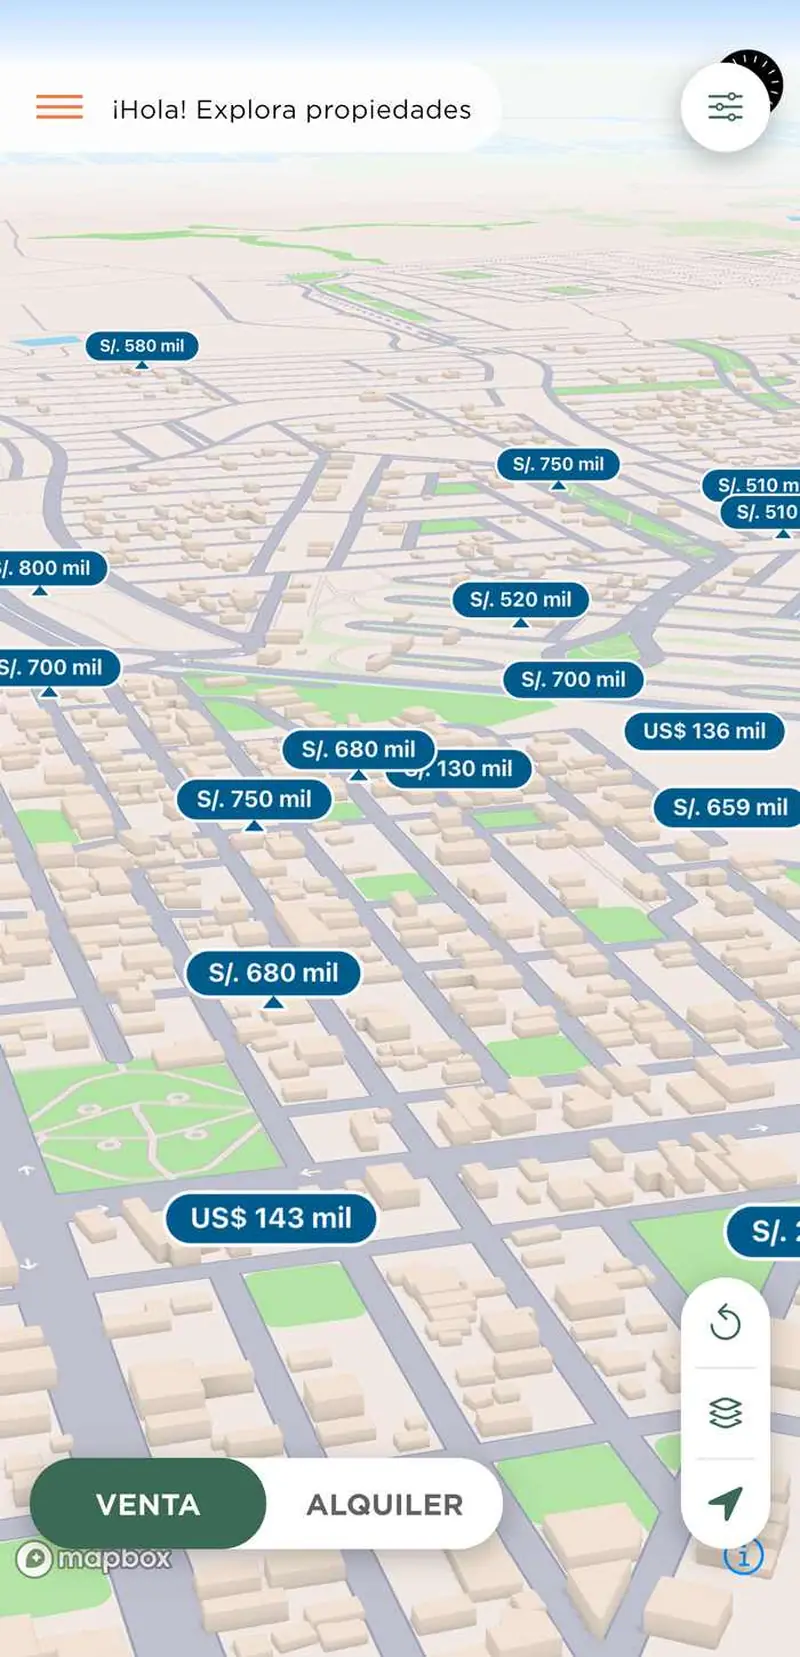
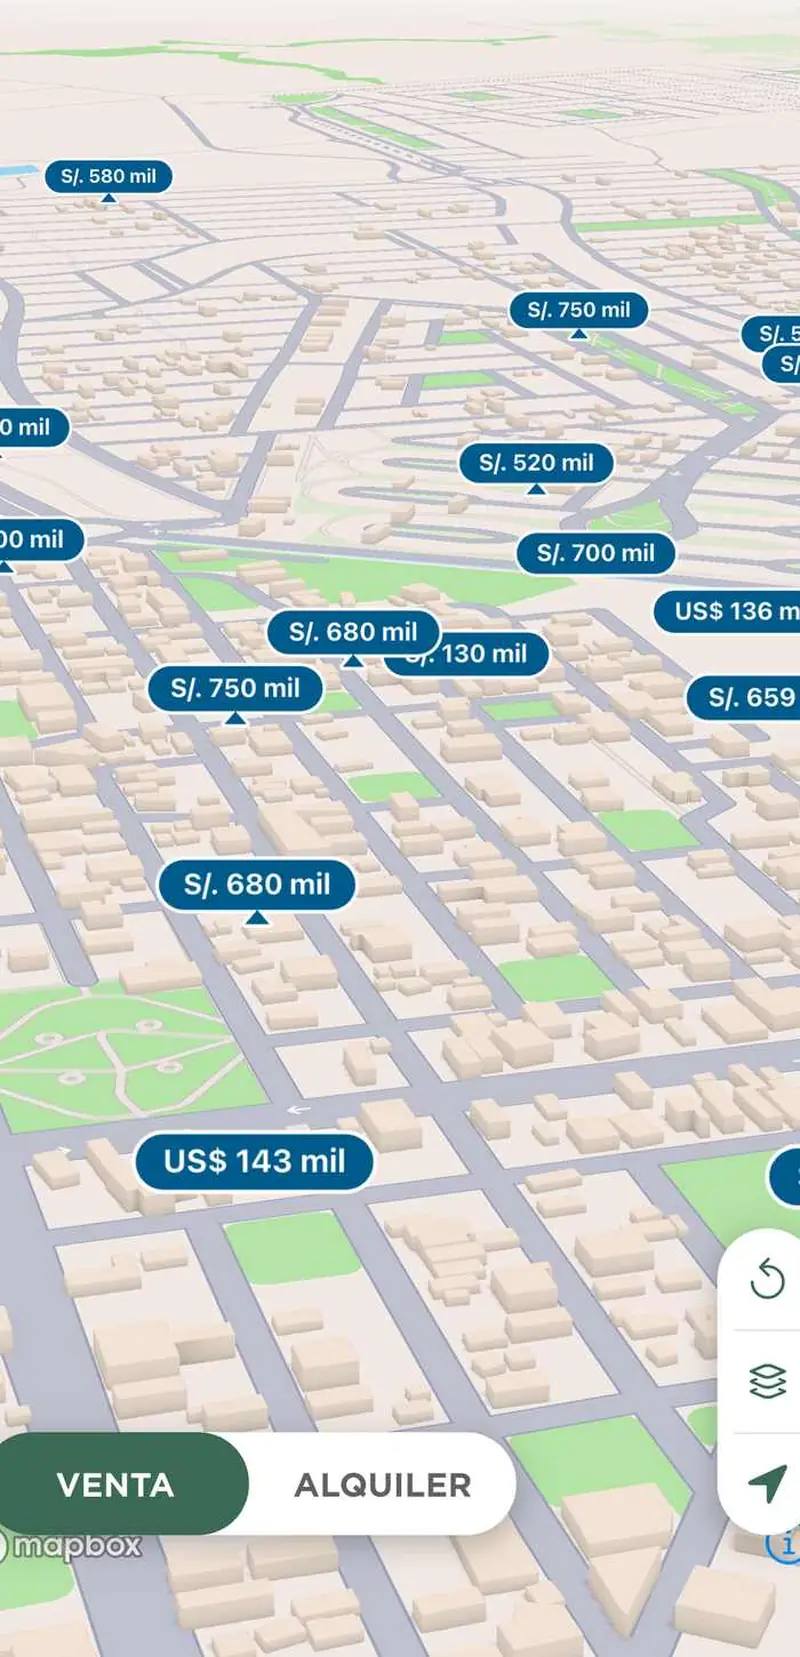
hero: browser becomes atmosphere, add the district row, nav says Anunciar
Second design pass. Four changes that matter:

- The browser behind the phone is now faded and softened. Sharp and at full
  strength it put a second map of the same city, at the same zoom, with the
  same price-pill language, directly behind the phone -- the bezel was doing
  all the separating and there was no depth. Its rent pills also put six more
  orange objects on the board than the CTA, so the button stopped owning the
  colour. It now bleeds off the right and the bottom, so the only edge in view
  is the top one, which is where a window is supposed to have one.

- Added a district row: Castilla, Sullana, Piura, 26 de Octubre, Mancora,
  Miguel Checa. Read from production and ordered by listing count. It is the
  only evidence on the page, it terminates the left column at the same
  baseline as the phone, and it answers the question a visitor actually has.
  Nobody's remaining doubt is price -- that is answered twice. It is 'do you
  cover where my property is'. Only districts with live listings are listed.

- The eyebrow stopped naming its subject once the headline took over the
  location, so it read as a fragment above a sentence. Now 'Cualquier
  distrito, cualquier propiedad'.

- Header nav says 'Anunciar' instead of 'Publica Gratis' -- the decided
  concept word, and a nav item should name a destination rather than make a
  claim.

Also: the mobile map block is now a link to /explorar. A photoreal,
[…]

diff --git a/src/components/landing/HeroSection.tsx b/src/components/landing/HeroSection.tsx
@@ -14,21 +14,43 @@ interface HeroSectionProps {
  * The hero carries the two things the paid ads lead with: anunciar is free
  * anywhere in Piura, and there is an app. Everything else is secondary.
  *
- * Copy notes, so nobody "improves" these back:
+ * Copy notes, so these are not "improved" back:
  * - "Anunciar" is the concept word, "Agrega tu propiedad" is the button. A
- *   button that repeats the headline's claim says nothing about what clicking
+ *   button repeating the headline's claim says nothing about what clicking
  *   does. See brand.md's glossary.
  * - The body used to end "...el mapa que la gente de Piura ya está mirando."
- *   It reads better and implies an audience we do not have yet, which
- *   constraints.md forbids. Same-day is a verified fact instead: listings are
- *   written straight to status 'active' with no moderation gate.
- * - The free claim is made exactly twice — headline and body. It was made five
- *   times across nav, headline, body, a price lockup and a screenshot overlay.
+ *   It reads better and implies an audience we do not have (52 users, 257
+ *   listing views all time), which constraints.md forbids. Same-day is a
+ *   verified fact: listings are written straight to status 'active' with no
+ *   moderation gate.
+ * - "Sin límite de avisos" is verified too: no cap exists in the rules, the
+ *   services or the functions, and one owner already holds 8 listings.
+ * - The free claim is made exactly twice — headline and body. It had been made
+ *   five times across nav, headline, body, a price lockup and an overlay.
  *
- * Store badges are Apple's and Google's official artwork. Apple's badge is
- * 2.99:1 and Google's is 3.37:1, so equal heights make Play look ~13% wider;
- * the heights below are offset deliberately to match optical mass.
+ * Store badges are Apple's and Google's official artwork. Apple's is 2.99:1 and
+ * Google's 3.37:1, so equal heights make Play look ~13% wider; the heights below
+ * are offset deliberately to match optical mass.
+ *
+ * KNOWN, deliberately not fixed here — both are shipped, site-wide components
+ * and changing them is a design-system call, not a hero one:
+ * - the primary button is white on #F47843, which measures 2.76:1 (fails AA);
+ * - the logo wordmark is #FECD60 on cream, which measures 1.43:1.
  */
+
+// Districts with LIVE listings on production, in count order: Castilla 24,
+// Sullana 11, Piura 6, 26 de Octubre 5, Máncora 2, Miguel Checa 1. Nothing
+// aspirational — a coverage claim we cannot back is what constraints.md rules
+// out. Re-check against production before changing this list.
+const DISTRICTS = [
+  'Castilla',
+  'Sullana',
+  'Piura',
+  '26 de Octubre',
+  'Máncora',
+  'Miguel Checa',
+]
+
 export default function HeroSection({ heroRef }: HeroSectionProps) {
   // Anonymous visitors hitting the CTA land at /app/login (AuthGuard redirect).
   // Stash the destination so they bounce to the wizard after signing in.
@@ -57,43 +79,64 @@ export default function HeroSection({ heroRef }: HeroSectionProps) {
     </div>
   )
 
+  const districtRow = (
+    <ul className="flex flex-wrap items-center gap-x-2.5 gap-y-1 lg:gap-x-3">
+      {DISTRICTS.map((d, i) => (
+        <li key={d} className="flex items-center gap-x-2.5 lg:gap-x-3">
+          {i > 0 && (
+            <span aria-hidden="true" className="text-border">
+              ·
+            </span>
+          )}
+          <span className="font-sans text-xs font-medium tracking-[0.6px] text-text-secondary lg:text-[13px]">
+            {d}
+          </span>
+        </li>
+      ))}
+    </ul>
+  )
+
   return (
     <section
       ref={heroRef}
       className="relative overflow-hidden bg-cream pt-20 lg:min-h-[820px]"
     >
-      {/* ---------- Desktop diorama (lg+) ------------------------------------
-          The window is the big object and bleeds off-canvas; the phone is the
-          small object and is whole, in front. Reversing that polarity — a
-          contained window behind a bleeding phone — is what made an earlier
-          pass read as broken rather than layered. The window's own width
-          (1135px) also pushes the "33 de 50 propiedades" counter off-screen. */}
+      {/* ---------- Desktop atmosphere (lg+) ---------------------------------
+          The browser is ATMOSPHERE, not a second subject. Sharp and at full
+          strength it put a second map of the same city, at the same zoom, with
+          the same pill language, right behind the phone — the bezel did all the
+          separating and there was no depth. Its rent pills also put six more
+          orange objects on the board than the CTA, so the button stopped owning
+          the colour. It bleeds off the right AND the bottom, so the only edge
+          in view is the top one, which is where a window should have one. */}
       <div
         aria-hidden="true"
         className="pointer-events-none absolute inset-y-0 left-1/2 hidden lg:block"
       >
-        <div className="absolute left-6 top-[120px] w-[1135px] max-w-none overflow-hidden rounded-xl border border-border bg-white shadow-[0_2px_6px_rgba(28,28,30,0.14),0_24px_48px_rgba(28,28,30,0.10)]">
+        <div className="absolute left-6 top-[96px] h-[724px] w-[1135px] max-w-none overflow-hidden rounded-t-xl border border-b-0 border-border bg-white opacity-[0.68] shadow-[0_24px_48px_rgba(28,28,30,0.07)]">
           <div className="flex h-[34px] items-center gap-2 border-b border-border bg-[#F6F1E8] px-3.5">
             <span className="h-2.5 w-2.5 rounded-full bg-[#DED6C8]" />
             <span className="h-2.5 w-2.5 rounded-full bg-[#DED6C8]" />
             <span className="h-2.5 w-2.5 rounded-full bg-[#DED6C8]" />
-            <span className="ml-3 flex h-[18px] w-60 items-center rounded-full border border-border bg-white px-2.5 text-[10px] text-text-tertiary">
+            <span className="ml-3 flex h-[18px] w-60 items-center rounded-full border border-border bg-white px-2.5 text-[10px] text-text-secondary">
               oqupa.com
             </span>
           </div>
           <img
             src={webMap}
             alt=""
-            className="block h-[546px] w-full object-cover object-left"
+            className="block h-[690px] w-full object-cover object-left-top blur-[1.3px]"
             loading="lazy"
           />
         </div>
 
-        <div className="absolute left-[312px] top-[148px] w-[312px] rounded-[40px] bg-text-primary p-2.5 shadow-[0_2px_6px_rgba(28,28,30,0.14),0_24px_48px_rgba(28,28,30,0.10)]">
+        {/* Whole, sharp, in front. Its bottom edge and the district row below
+            the copy both land on y=798 so the two halves terminate together. */}
+        <div className="absolute left-[344px] top-[210px] w-[280px] rounded-[36px] bg-text-primary p-2.5 shadow-[0_2px_6px_rgba(28,28,30,0.14),0_24px_48px_rgba(28,28,30,0.10)]">
           <img
             src={appMap}
             alt=""
-            className="block h-[622px] w-full rounded-[31px] object-cover"
+            className="block h-[568px] w-full rounded-[28px] object-cover"
             loading="eager"
           />
         </div>
@@ -101,20 +144,22 @@ export default function HeroSection({ heroRef }: HeroSectionProps) {
 
       {/* ---------- Copy ---------------------------------------------------- */}
       <div className="relative z-10 mx-auto max-w-7xl px-5 sm:px-8 lg:px-12">
-        <div className="flex flex-col items-center pt-10 text-center md:pt-14 lg:w-[620px] lg:items-start lg:pt-[116px] lg:text-left">
+        <div className="flex flex-col items-start pt-10 md:pt-14 lg:w-[620px] lg:pt-[132px]">
           <span className="font-sans text-[11px] font-semibold uppercase tracking-[0.14em] text-secondary sm:text-xs lg:text-[12.5px] lg:tracking-[0.16em]">
-            En cualquier distrito
+            Cualquier distrito, cualquier propiedad
           </span>
 
-          <h1 className="mt-4 font-serif text-[38px] font-normal leading-[1.05] tracking-[-0.02em] text-text-primary sm:text-[46px] sm:leading-[1.06] lg:mt-7 lg:text-[68px] lg:leading-[1.02]">
+          {/* 64px at lg, not 68: at 68 the first line came within 49px of the
+              artwork, which on 96px outer margins reads as a collision. */}
+          <h1 className="mt-4 font-serif text-[38px] font-normal leading-[1.05] tracking-[-0.02em] text-text-primary sm:text-[40px] sm:leading-[1.06] lg:mt-6 lg:text-[64px] lg:leading-[1.02]">
             Anunciar en Piura
             <br />
             no cuesta nada.
           </h1>
 
-          <p className="mt-4 max-w-[350px] font-sans text-[15.5px] leading-[1.5] text-text-secondary sm:max-w-[560px] sm:text-[17px] lg:mt-7 lg:text-[18.5px] lg:leading-[1.55]">
+          <p className="mt-4 max-w-[350px] font-sans text-[15.5px] leading-[1.5] text-text-secondary sm:max-w-[560px] sm:text-[17px] lg:mt-6 lg:text-[18.5px] lg:leading-[1.55]">
             Sin comisiones, sin tarifas, sin límite de avisos. Tu propiedad
-            aparece en el mapa de Piura el mismo día.
+            aparece en el mapa el mismo día.
           </p>
 
           <Link
@@ -125,15 +170,15 @@ export default function HeroSection({ heroRef }: HeroSectionProps) {
             Agrega tu propiedad
           </Link>
 
-          <div className="mt-9 flex flex-col items-center gap-3 lg:mt-14 lg:items-start">
+          <div className="mt-9 flex flex-col items-start gap-3 lg:mt-12">
             <span className="font-sans text-[13px] font-medium text-text-primary lg:text-sm">
               El mapa de Piura, en tu teléfono
             </span>
             {storeBadges}
           </div>
 
-          {/* The desktop board carries this signal with the browser window
-              instead, so it would be a duplicate there. */}
+          {/* The desktop board carries this signal with the browser window, so
+              it would be a duplicate there. */}
           <div className="mt-5 flex items-center gap-2 lg:hidden">
             <svg
               width="13"
@@ -152,6 +197,12 @@ export default function HeroSection({ heroRef }: HeroSectionProps) {
               También desde el navegador en oqupa.com
             </span>
           </div>
+
+          {/* The column's baseline element, and the only evidence on the page.
+              The eyebrow claims coverage; this proves it with nouns — and
+              "do you cover where my property is?" is the real question for a
+              marketplace this size, not price, which is answered twice above. */}
+          <div className="mt-8 lg:mt-14">{districtRow}</div>
         </div>
       </div>
 
@@ -160,26 +211,37 @@ export default function HeroSection({ heroRef }: HeroSectionProps) {
           phone inside a phone spent over a third of the viewport on a bezel the
           viewer is already holding, and the crop read as a failed image. At md
           there is room for a frame, and it matters — a phone screenshot shown
-          768px wide renders the app's UI at roughly twice life size. */}
-      <div className="mt-10 lg:hidden">
-        <div className="mx-auto overflow-hidden rounded-t-2xl shadow-[0_2px_6px_rgba(28,28,30,0.14),0_24px_48px_rgba(28,28,30,0.10)] md:hidden">
+          768px wide renders the app's UI at roughly twice life size.
+
+          It is a link because a photoreal, pin-dense, edge-to-edge map at the
+          bottom of a phone viewport WILL be tapped. Static, it is a dead end on
+          the board that carries most of the traffic. */}
+      <Link
+        to="/explorar"
+        aria-label="Ver el mapa de propiedades en Piura"
+        className="group mt-10 block lg:hidden"
+      >
+        <div className="relative mx-auto overflow-hidden rounded-t-2xl shadow-[0_2px_6px_rgba(28,28,30,0.14),0_24px_48px_rgba(28,28,30,0.10)] md:hidden">
           <img
             src={appMap}
             alt="El mapa de Oqupa con precios reales de propiedades en Piura"
             className="block h-[348px] w-full object-cover object-[center_30%]"
             loading="eager"
           />
+          <span className="absolute right-5 top-3.5 rounded-[20px] bg-white px-[18px] py-2.5 font-sans text-xs font-bold uppercase tracking-[1px] text-text-primary shadow-[0_2px_6px_rgba(28,28,30,0.14),0_8px_20px_rgba(28,28,30,0.10)] transition-transform duration-200 group-hover:scale-[1.03]">
+            Ver el mapa
+          </span>
         </div>
 
-        <div className="mx-auto hidden w-[400px] rounded-t-[50px] bg-text-primary px-3 pt-3 shadow-[0_2px_6px_rgba(28,28,30,0.14),0_24px_48px_rgba(28,28,30,0.10)] md:block lg:hidden">
+        <div className="relative mx-auto hidden w-[400px] rounded-t-[48px] bg-text-primary px-3 pt-3 shadow-[0_2px_6px_rgba(28,28,30,0.14),0_24px_48px_rgba(28,28,30,0.10)] md:block lg:hidden">
           <img
             src={appMap}
             alt="El mapa de Oqupa con precios reales de propiedades en Piura"
-            className="block h-[300px] w-full rounded-t-[39px] object-cover object-top"
+            className="block h-[300px] w-full rounded-t-[37px] object-cover object-top"
             loading="eager"
           />
         </div>
-      </div>
+      </Link>
     </section>
   )
 }

diff --git a/src/components/layout/Header.tsx b/src/components/layout/Header.tsx
@@ -25,7 +25,10 @@ interface NavLink {
 const NAV_LINKS: NavLink[] = [
   { label: 'Explorar', href: '/explorar', isRoute: true },
   {
-    label: 'Publica Gratis',
+    // "Anunciar", not "Publica Gratis": anunciar is the decided concept word
+    // (see brand.md's glossary), and a nav item names a destination rather
+    // than making a claim — the free claim does its work in the hero.
+    label: 'Anunciar',
     href: '/app/listings/new',
     isRoute: true,
     // Anonymous users bounce through /app/login — stash the destination
